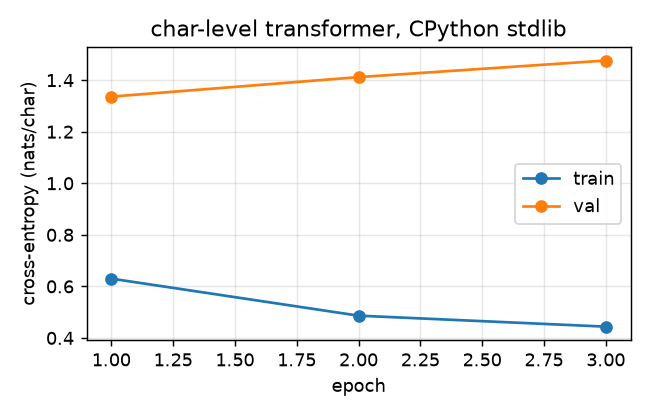
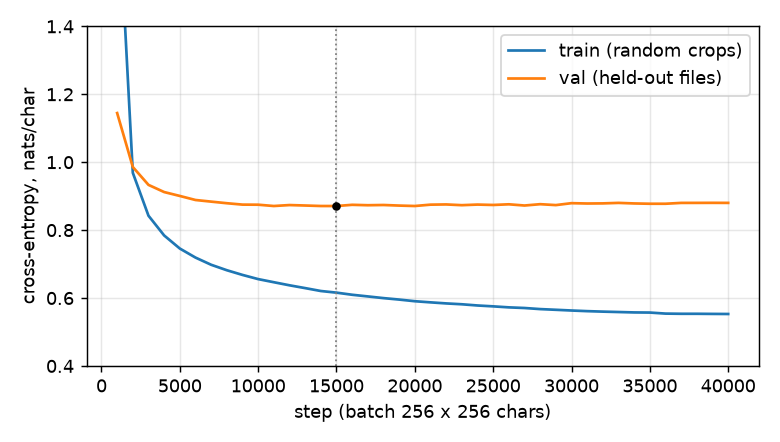
Results: step-based run on the full stdlib with a file-level held-out set; minimum 0.871 nats/char (1.256 bits)

diff --git a/README.md b/README.md
@@ -20,35 +20,36 @@ pip install -r requirements.txt
 
 ### 1. Prepare training data
 
-Collect all `.py` files from a directory into a single text file:
+Collect all `.py` files from a directory into text files, holding out 10 % of the FILES for validation:
 
 ```bash
-python prepare_data.py /path/to/python/code -o dataset.txt
+python prepare_data.py /path/to/python/code -o data.txt --val-fraction 0.1
+# writes data_train.txt and data_val.txt; no file contributes to both
 ```
 
 ### 2. Train the model
 
 ```bash
-python train.py --data dataset.txt
+python train.py --train data_train.txt --val data_val.txt
 ```
 
-Training options:
+Training is step based: every step draws a batch of random 256-character crops from the training text; every `--eval-interval` steps the loss is measured on the whole held-out set (non-overlapping windows), and `checkpoints/best_model.pt` is written whenever that loss improves.
 
 | Flag | Default | Description |
 |------|---------|-------------|
-| `--epochs` | 50 | Number of training epochs |
-| `--seed` | 1337 | Random seed |
-| `--amp` | off | bfloat16 autocast on CUDA |
-| `--batch-size` | 64 | Batch size |
+| `--max-steps` | 20000 | Training steps |
+| `--eval-interval` | 1000 | Steps between evaluations on the held-out set |
+| `--batch-size` | 64 | Crops per step |
 | `--block-size` | 256 | Context window (characters) |
 | `--d-model` | 256 | Embedding / hidden dimension |
 | `--n-heads` | 4 | Number of attention heads |
 | `--n-layers` | 4 | Number of transformer blocks |
-| `--lr` | 3e-4 | Learning rate |
+| `--lr` / `--min-lr` | 3e-4 / 3e-5 | Peak and final learning rate (linear warmup, cosine decay) |
+| `--warmup-steps` | 200 | Warmup length |
 | `--dropout` | 0.1 | Dropout rate |
-| `--save-dir` | `checkpoints/` | Where to save model checkpoints |
-
-The best model (by validation loss) is saved to `checkpoints/best_model.pt`.
+| `--seed` | 1337 | Random seed |
+| `--amp` | off | bfloat16 autocast on CUDA |
+| `--save-dir` | `checkpoints/` | Best checkpoint and `history.json` |
 
 ### 3. Generate text
 
@@ -74,73 +75,45 @@ Generation options:
 
 ## Results
 
-Trained on this machine's CPython 3.14.6 standard library: the 154 top-level `Lib/*.py` modules, 4,723,742 characters, 180-character vocabulary, built with `prepare_data.py`. Hardware: one NVIDIA GeForce RTX 5080 (16 GB). Default configuration (4 layers, 4 heads, d_model 256, context 256, batch 64, AdamW 3e-4 with cosine decay, dropout 0.1), `--seed 1337`, **3 epochs instead of the default 50**: one epoch is 66,474 steps and takes 33 minutes, so 50 would take about 28 hours.
+Data: the CPython 3.14.6 standard library on the training machine, every `.py` file except tests, idlelib, lib2to3 and site-packages: 604 files, 11.07 M characters, 278-character vocabulary. Split by file with `--val-fraction 0.1 --seed 0`: 544 files (9,592,127 chars) for training, 60 files (1,494,617 chars) held out.
 
 ```bash
-python prepare_data.py /usr/lib/python3.14 -o dataset.txt      # after copying the top-level .py files into a directory
-python train.py --data dataset.txt --epochs 3 --seed 1337
+python prepare_data.py stdlib/ -o stdlib.txt --val-fraction 0.1 --seed 0
+python train.py --train stdlib_train.txt --val stdlib_val.txt --max-steps 40000 --batch-size 256 --amp --seed 1337
 ```
 
-| epoch | train loss | val loss | time | throughput |
-|---|---|---|---|---|
-| 1 | 0.630 | **1.336** | 32.9 min | 552 k tok/s |
-| 2 | 0.486 | 1.412 | 32.6 min | 556 k tok/s |
-| 3 | 0.444 | 1.476 | 31.9 min | 570 k tok/s |
+Model: the default 4 layers, 4 heads, d_model 256, context 256; **3,367,702 parameters**. Hardware: one NVIDIA GeForce RTX 5080 (16 GB), bfloat16 autocast, 85 minutes for 40,000 steps while sharing the GPU with another job (about 750 k tokens/s when it had the GPU to itself).
 
-Parameters: **3,317,428**. Best validation loss **1.336 nats/char** (epoch 1), 97 minutes total. Peak GPU memory about 3 GB.
+| step | train loss | held-out loss (nats/char) | bits/char |
+|---|---|---|---|
+| 1,000 | 1.840 | 1.1447 | 1.651 |
+| 2,000 | 0.969 | 0.9859 | 1.422 |
+| 5,000 | 0.746 | 0.9006 | 1.299 |
+| 10,000 | 0.656 | 0.8748 | 1.262 |
+| **15,000** | 0.616 | **0.8709** | **1.256** |
+| 20,000 | 0.591 | 0.8710 | 1.257 |
+| 30,000 | 0.563 | 0.8793 | 1.269 |
+| 40,000 | 0.553 | 0.8802 | 1.270 |
+
+**Minimum held-out loss: 0.871 nats/char = 1.256 bits/char at step 15,000** (the saved checkpoint). After that the training loss keeps falling while the held-out loss drifts up: a 3.4 M-parameter model has started to memorise 9.6 M characters.
 
 ![loss curve](docs/loss_curve.png)
 
-The train/val gap opens immediately: every character offset is a training sample, so each 256-character window is seen many times per epoch, and the validation slice is the last 10 % of the alphabetically ordered files. Validation loss rises after epoch 1; more data helps more than more epochs.
-
-Samples at temperature 0.8 (top-k 50), full text in [`docs/samples.md`](docs/samples.md):
+Samples from the best checkpoint at temperature 0.8, top-k 50 (more in [`docs/samples.md`](docs/samples.md)):
 
 ```
-def __init__(self, x, *bases):
-        self.x = x
-        self.set_seqs(x, level)
-
-    # String representation for details.
-```
-```
-import errno
-import sys
-
-
-try:
-    from _ssl import functools import _ssl
-except ImportError:
-    _hashlib = None
+def __init__(self, message=None, **kw):
+        self.message = message
+        self._check(f'process Failed exec')
+        self._check("process")
+        self._loop.call_exception_handler({
+                'message': message,
+                'exception': exc,
+                'transport': self,
+                },
 ```
 
-### Run 2: full standard library, larger batch, bf16
-
-Same model, `--batch-size 512 --amp` (bfloat16 autocast), on the whole standard library minus tests, idlelib, lib2to3 and site-packages: 604 files, 11,068,900 characters, 278-character vocabulary, 3,367,702 parameters, 3 epochs, seed 1337.
-
-```bash
-python train.py --data dataset_full.txt --epochs 3 --batch-size 512 --amp --seed 1337
-```
-
-| epoch | train loss | val loss | time | throughput |
-|---|---|---|---|---|
-| 1 | 0.702 | **0.929** | 52.4 min | 813 k tok/s |
-| 2 | 0.551 | 0.951 | 52.4 min | 813 k tok/s |
-| 3 | 0.524 | 0.967 | 52.4 min | 813 k tok/s |
-
-Best validation loss **0.929 nats/char** (epoch 1), 2 h 37 min total, 11.6 GB GPU memory. Throughput only rose 1.5× despite the 8× larger batch and bf16, because the per-sample Python `DataLoader` (no workers, one tensor slice per item) is the bottleneck, not the GPU. More data lowered the validation loss from 1.34 to 0.93; again the best epoch is the first.
-
-![loss curve, run 2](docs/loss_curve_run2.png)
-
-Run 2 sample at temperature 0.8 ([`docs/samples_run2.md`](docs/samples_run2.md)):
-
-```
-def __init__(self, x, y):
-        self.x = x
-
-    def __exit__(self, type, value, tb):
-        self.traceback = traceback
-        self.curframe = {}
-```
+Earlier revisions of this repository trained by epoch over every character offset with the last 10 % of the concatenated text as validation. Those runs reported 1.336 (4.7 M-char subset) and 0.929 nats/char (full stdlib), both at the end of their first epoch. They are not comparable with the numbers above: the split was by position rather than by file, and evaluation happened only once per epoch, so the true minimum was never observed.
 
 ## Tests
 

diff --git a/docs/samples.md b/docs/samples.md
@@ -1,56 +1,56 @@
 # Samples
 
-Generated with `inference.py` from `best_model.pt` (epoch 1, val loss 1.336), temperature 0.8, top-k 50, 400 characters each, `torch.manual_seed(1337)`.
+Generated with `inference.py` from the best checkpoint (step 15,000, held-out loss 0.871 nats/char), temperature 0.8, top-k 50, 400 characters each, `torch.manual_seed(1337)`, prompts `def `, `class `, `import `.
 
 ```
-PROMPT: 'def '
-def __init__(self, x, *bases):
-        self.x = x
-        self.set_seqs(x, level)
+def __init__(self, message=None, **kw):
+        self.message = message
+        self._check(f'process Failed exec')
+        self._check("process")
+        self._loop.call_exception_handler({
+                'message': message,
+                'exception': exc,
+                'transport': self,
+                },
+                self.__args__
+            )
 
-    # String representation for details.
-    # There is no before they since in which case they were in the level
-    # described in example or a field.
-    text = getattr(self, '_field_type', fIELD, fIELD)
-
-    # Rename and rename the environment. If that we don't replace
-    # a field name, and exist we're already tha
-```
-
-```
-PROMPT: 'class '
-class is an implementation for pickle module.
-# It's "import readline in the Python distribution, up Imports a Python software
-# readline() and immodule can avoid in this function.
-def importlib.machinery(pickle):
-    pager = 'row'
-    pager = get_pager()
-
-    if not depending and importlib._bootstrap_external.SourceFileLoader:
-        raise ValueError('Cannot set paged at least one depending')
-    retu
+    def __eq__(self, other):
+        if isins
 ```
 
 ```
-PROMPT: 'import '
+class is an implementation of module detail.
+        """
+        module = self._get_module_cached()
+        fullmodule = self._testModuleFullmodule(fullmodule, path, fullmodule,
+                                                         encoding=encoding, errors=errors)
+            if module is None:
+                return module
+            else:
+                self._base_external_encoding = encoding
+```
+
+```
 import errno
-import sys
+from enum import errno
+
+from . import errno
 
 
-try:
-    from _ssl import functools import _ssl
-except ImportError:
-    _hashlib = None
-else:
-    _hashlib = None
+if __name__ == '__main__':
+    print("Errors", errno.ENOSUBPROCESSIBLE}.symbols()
 
 
-def _init(file, file, flags, output=None):
-    """Return a stream object of the file.
+# FILE: asyncio/testmodule.py
+"""Test tests in test*
 
-    This is a flag if bound method is instantiated fields.
+Tests instances to os.getmodules(), looking as a specific tests reasonable.
 
-    The file and descriptors are the descriptor descriptor.  However, the
-    parameter has the same through for use o
+A dname support.
+"""
+
+__all__ = ['ProtocolModule', 'Cleanup', 'ProtocolModule', 'ProtocolModule', 'ProtocolModule',
+           'Reado
 ```
 
